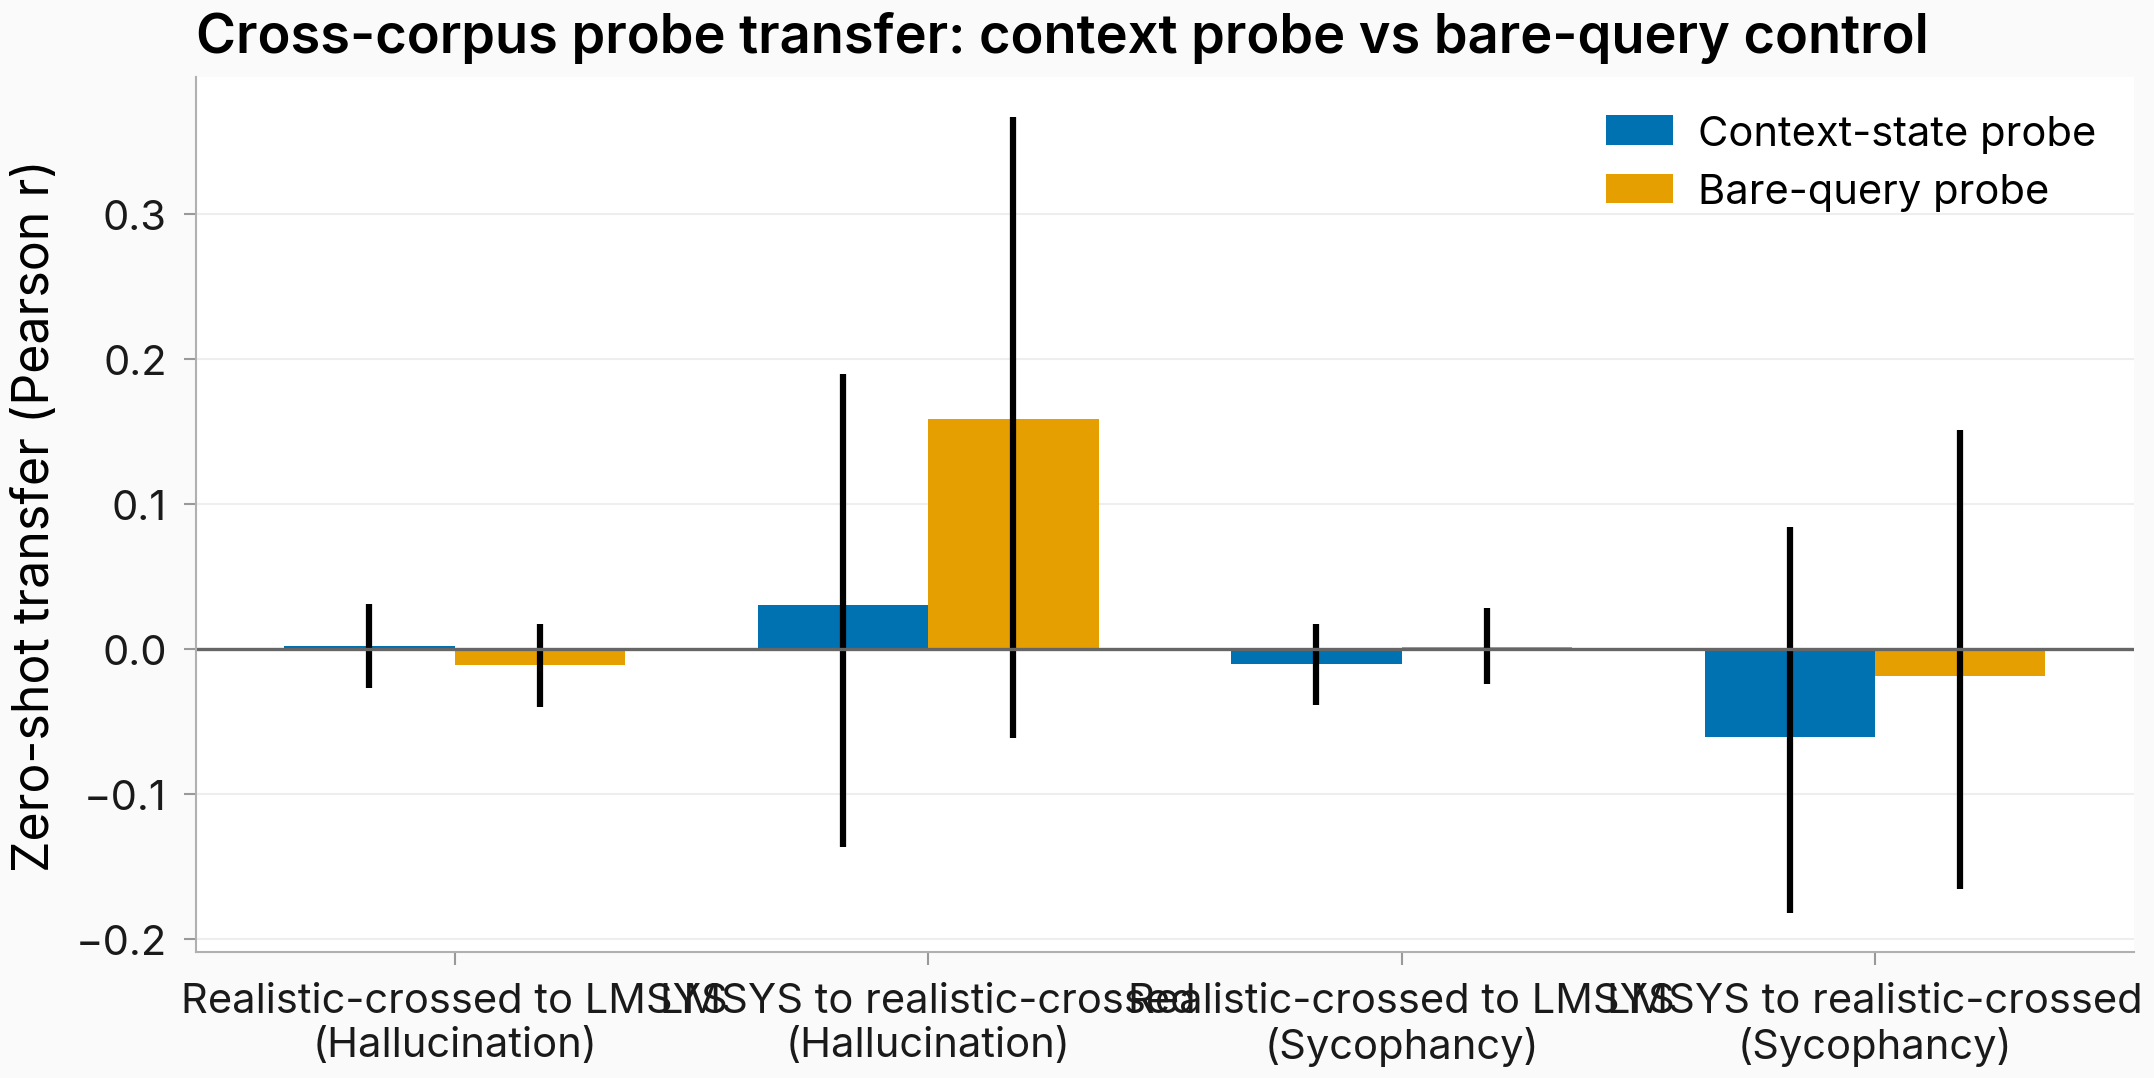
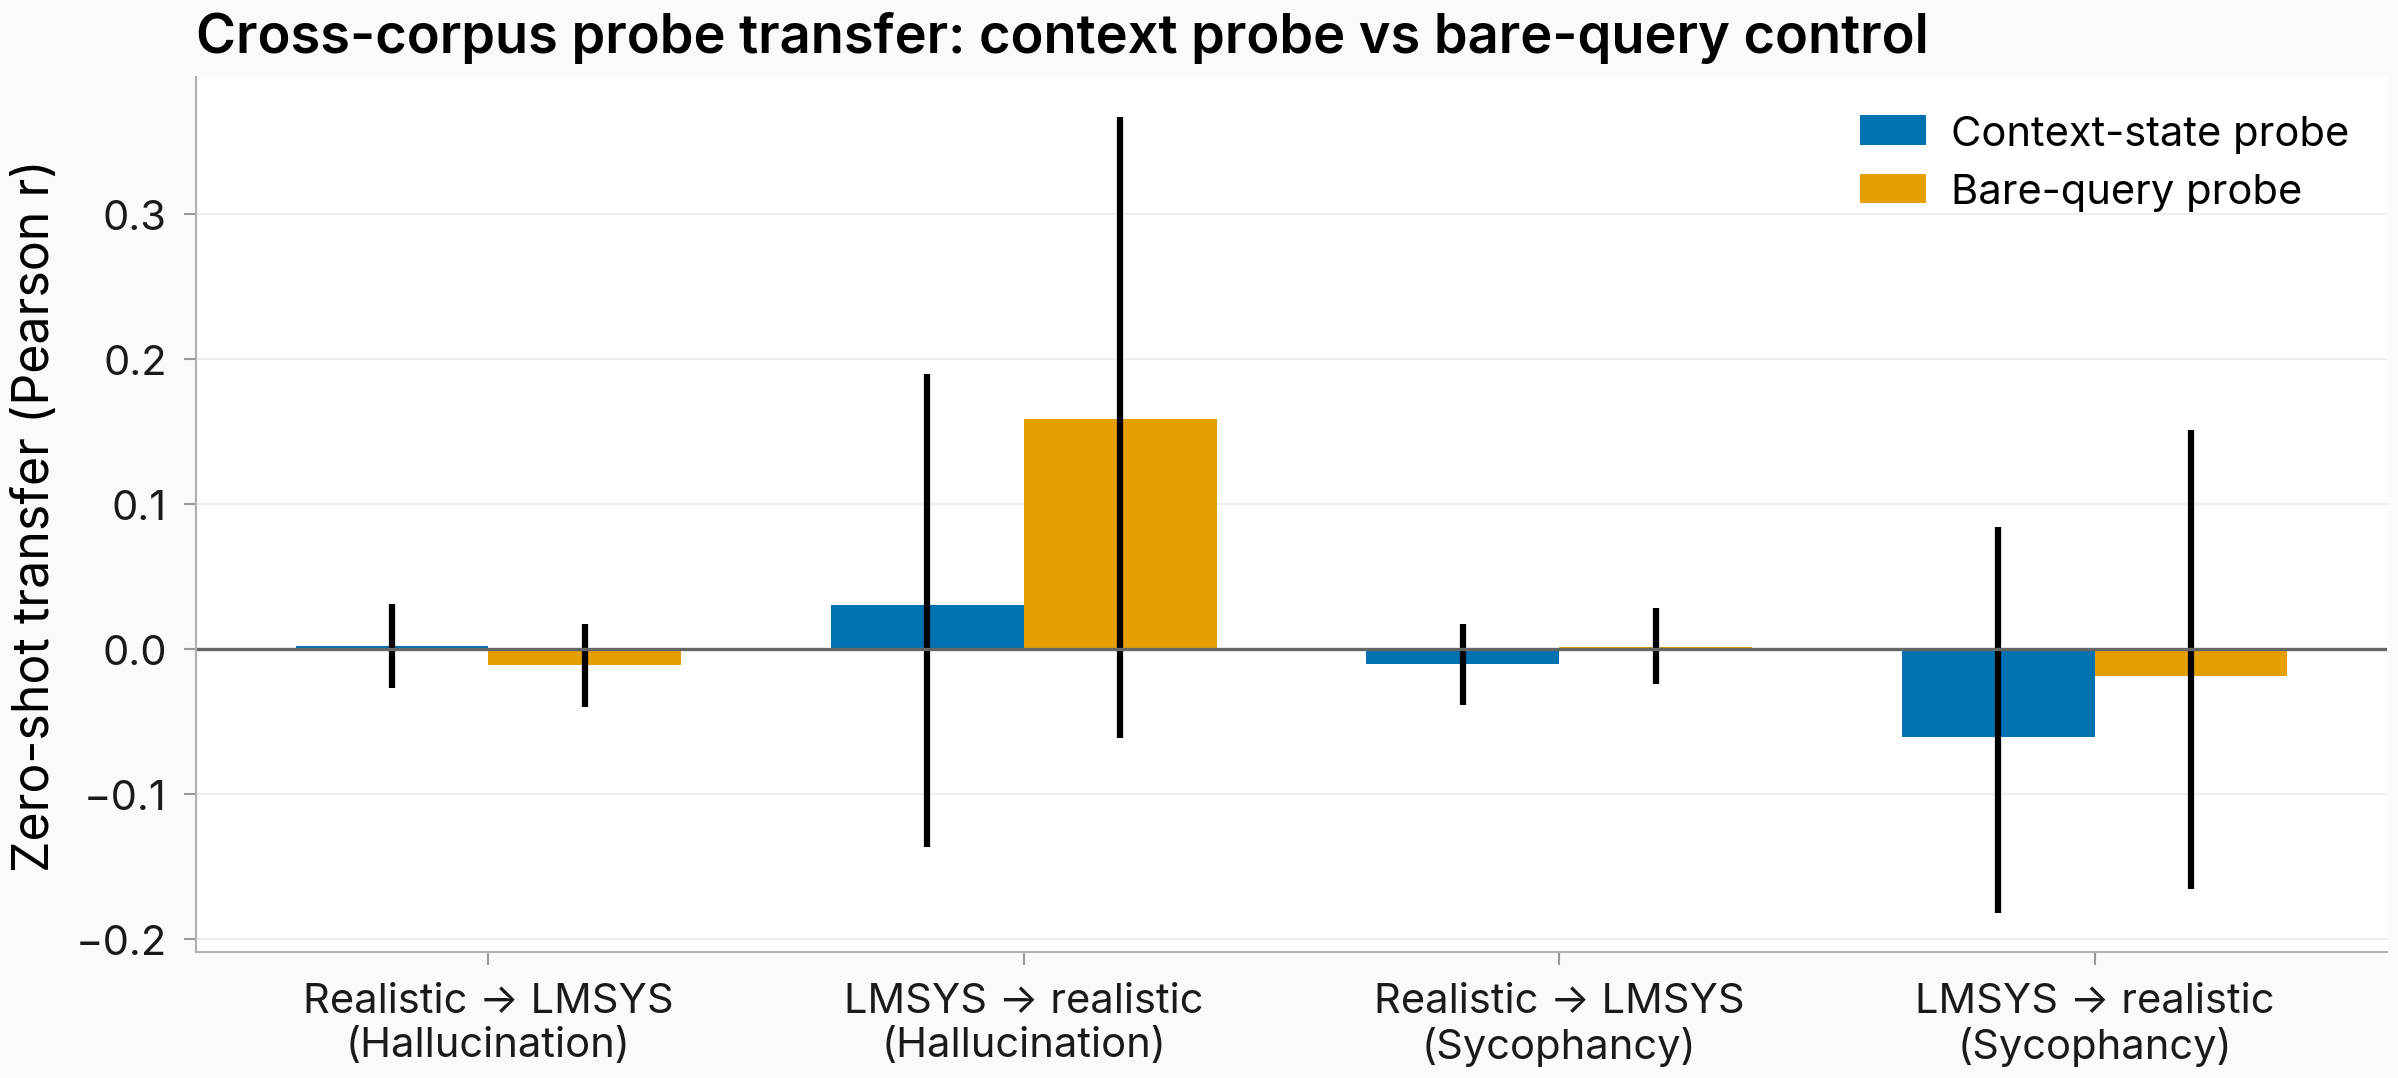
task #1092: cross-corpus-probe-transfer — fix transfer_bars colliding x-tick labels (shorten + widen)

diff --git a/scripts/issue1092_transfer_probe.py b/scripts/issue1092_transfer_probe.py
@@ -1628,7 +1628,7 @@ def make_figures(  # noqa: C901
             boot = dirA["lmsys"]["bootstrap_row_cluster"]
             bars.append(
                 {
-                    "group": f"Realistic-crossed to LMSYS\n({trait_label.get(trait, trait)})",
+                    "group": f"Realistic → LMSYS\n({trait_label.get(trait, trait)})",
                     "ctx": dirA["lmsys"]["context_probe"]["pearson_r"],
                     "bare": dirA["lmsys"]["bare_probe"]["pearson_r"],
                     "ctx_ci": boot.get("ci_ctx", {}),
@@ -1646,7 +1646,7 @@ def make_figures(  # noqa: C901
             ]
             bars.append(
                 {
-                    "group": f"LMSYS to realistic-crossed\n({trait_label.get(trait, trait)})",
+                    "group": f"LMSYS → realistic\n({trait_label.get(trait, trait)})",
                     "ctx": dirB["context_states"]["pearson_r"],
                     "bare": dirB["bare_states"]["pearson_r"],
                     "ctx_ci": widest.get("ci_ctx", {}),
@@ -1654,7 +1654,7 @@ def make_figures(  # noqa: C901
                 }
             )
     if bars:
-        fig, ax = plt.subplots(figsize=(7.2, 3.6))
+        fig, ax = plt.subplots(figsize=(8.0, 3.6))
         xs = np.arange(len(bars), dtype=float)
         width = 0.36
 
